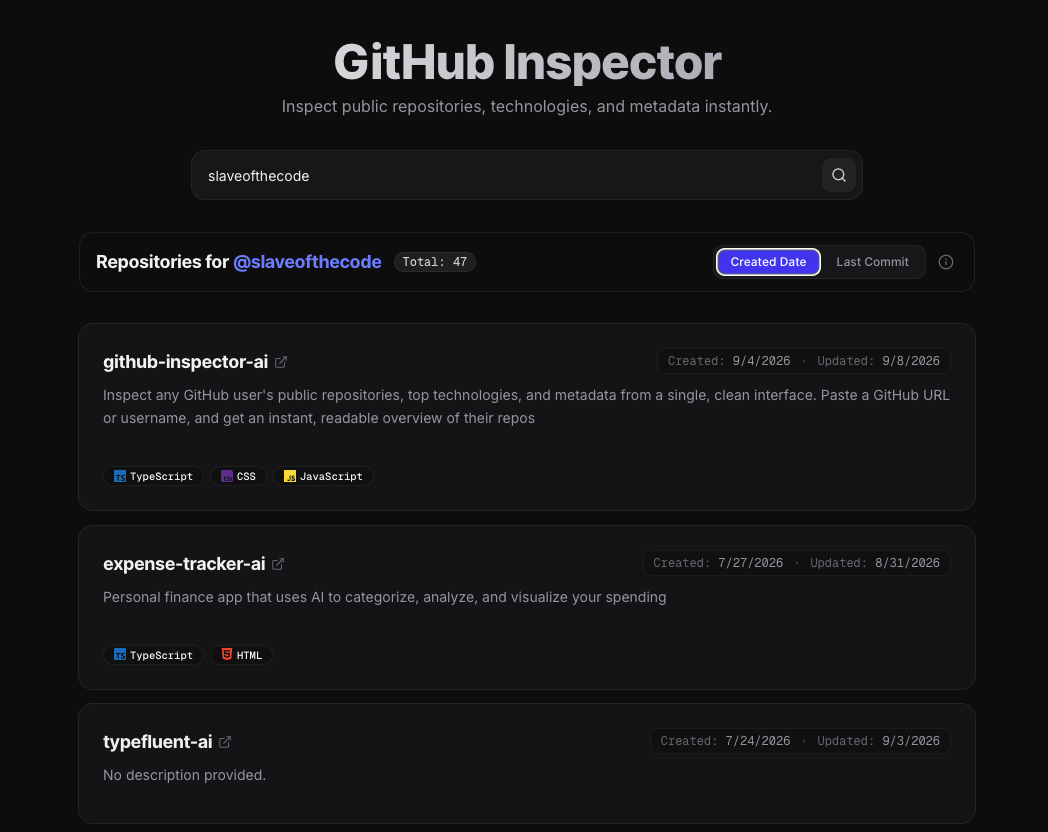
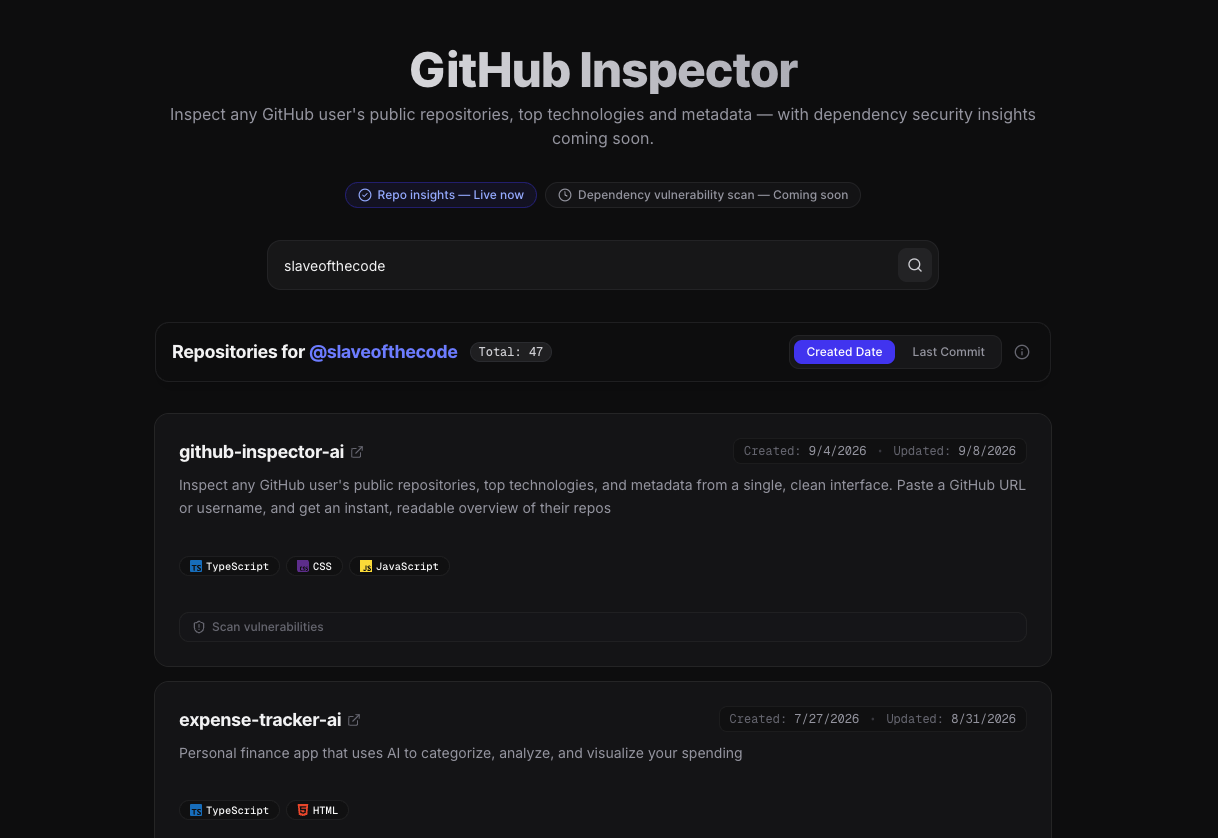
Enhance README and UI to reflect upcoming features, including dependency vulnerability scanning. Update status and roadmap sections for clarity. Add new visual indicators for live and upcoming functionalities on the homepage. Update documentation to include a new section on future developments.

diff --git a/app/page.tsx b/app/page.tsx
@@ -20,7 +20,16 @@ import {
 } from '@/components/ui/tooltip';
 import { LanguageBadge } from '@/components/language-badge';
 import { parseGithubInput } from '@/lib/validation';
-import { Search, ArrowUp, ExternalLink, Loader2, Info } from 'lucide-react';
+import {
+	Search,
+	ArrowUp,
+	ExternalLink,
+	Loader2,
+	Info,
+	CheckCircle2,
+	Clock,
+	ShieldAlert,
+} from 'lucide-react';
 
 interface Repository {
 	id: number;
@@ -143,9 +152,22 @@ export default function Home() {
 							GitHub Inspector
 						</h1>
 						<p className="text-zinc-400 text-sm md:text-base">
-							Inspect public repositories, technologies, and metadata instantly.
+							Inspect any GitHub user&apos;s public repositories, top technologies
+							and metadata — with dependency security insights coming soon.
 						</p>
 					</header>
+
+					{/* Vision strip: what's live vs what's next */}
+					<div className="flex flex-wrap items-center justify-center gap-2 text-xs">
+						<span className="inline-flex items-center gap-1.5 rounded-full border border-indigo-800/60 bg-indigo-950/40 px-3 py-1 font-medium text-indigo-300">
+							<CheckCircle2 className="h-3.5 w-3.5" />
+							Repo insights — Live now
+						</span>
+						<span className="inline-flex items-center gap-1.5 rounded-full border border-zinc-800 bg-zinc-900/60 px-3 py-1 font-medium text-zinc-400">
+							<Clock className="h-3.5 w-3.5" />
+							Dependency vulnerability scan — Coming soon
+						</span>
+					</div>
 
 					{/* Search Form - Integrated Lens Button */}
 					<form onSubmit={handleSearch} className="relative max-w-2xl mx-auto">
@@ -321,6 +343,19 @@ export default function Home() {
 											</div>
 										</CardContent>
 									)}
+
+									{/* Vulnerability scan (coming soon) */}
+									<CardContent className="pt-3">
+										<button
+											type="button"
+											disabled
+											title="Coming soon."
+											className="inline-flex select-none items-center gap-1.5 rounded-lg border border-zinc-800/80 bg-zinc-900/40 px-3 py-1.5 text-xs font-medium text-zinc-500 cursor-not-allowed"
+										>
+											<ShieldAlert className="h-3.5 w-3.5" />
+											Scan vulnerabilities
+										</button>
+									</CardContent>
 								</Card>
 							))
 						)}

diff --git a/docs/index.html b/docs/index.html
@@ -486,6 +486,7 @@
         <li><a href="#features">Features</a></li>
         <li><a href="#stack">Tech Stack</a></li>
         <li><a href="#how">How it works</a></li>
+        <li><a href="#next">Upcoming</a></li>
         <li><a href="https://github.com/slaveofthecode/github-inspector-ai" target="_blank" rel="noopener noreferrer">Source</a></li>
       </ul>
     </nav>
@@ -616,6 +617,25 @@
           <h3>Read the overview</h3>
           <p>Results render as styled cards sorted by creation date, with infinite scroll as you browse.</p>
         </div>
+      </div>
+    </section>
+  <!-- Upcoming -->
+    <section id="next" class="container">
+      <h2 class="section-title">Where it's going</h2>
+      <p class="section-sub">The roadmap behind the product.</p>
+
+      <div class="grid">
+        <article class="card">
+          <span class="card-tag">Live now</span>
+          <h3>Repository insights</h3>
+          <p>Search any GitHub user and instantly see all their public repositories, top technologies, and key dates — fully working today.</p>
+        </article>
+
+        <article class="card">
+          <span class="card-tag">Coming soon</span>
+          <h3>Dependency vulnerability scan</h3>
+          <p>Per-repository checks for known security vulnerabilities in its dependencies (package.json, requirements.txt, Cargo.toml, go.mod, Gemfile) — presented in plain language.</p>
+        </article>
       </div>
     </section>
   </main>

diff --git a/README.md b/README.md
@@ -5,7 +5,7 @@ Inspect any GitHub user's public repositories, top technologies, and metadata fr
 | | |
 |---|---|
 | **Site** | https://main.d22y0lq8a3u6xm.amplifyapp.com |
-| **Status** | Active development |
+| **Status** | Active development — repo insights live · dependency vulnerability scan coming soon |
 
 ## Features
 
@@ -124,9 +124,12 @@ Returns **all** public repositories for a GitHub user, sorted by creation date (
 | `429` | GitHub API rate limit reached (try again later) |
 | `500` | Unexpected server error |
 
-## Roadmap
+## What's next
 
-The long-term vision for the project — including AI-powered summaries, dependency/vulnerability analysis, and CVE explanations — is documented in [ROADMAP.md](./ROADMAP.md).
+- **Dependency vulnerability scan** — detect known security vulnerabilities (CVEs) in each repository's dependencies via OSV.dev, presented in plain language.
+- **Vulnerability explanations** — optional AI analysis that prioritizes and explains each finding (coming in a later release).
+
+The full long-term vision is documented in [ROADMAP.md](./ROADMAP.md).
 
 ## Deployment
 
